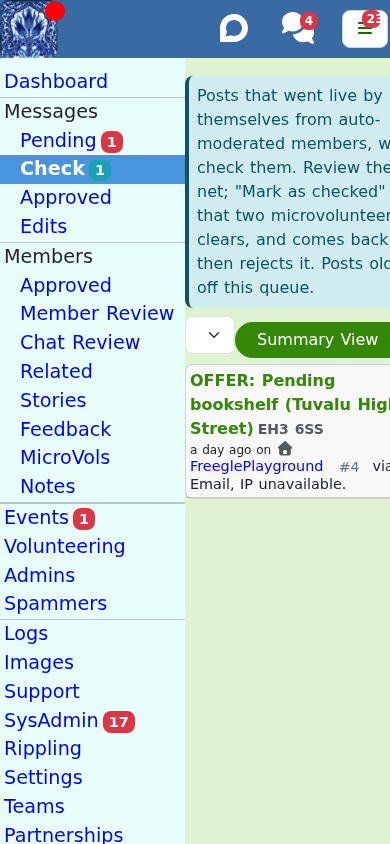
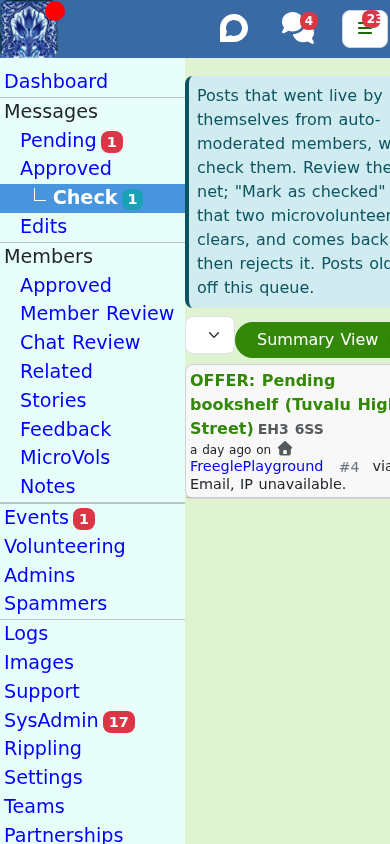
feat(modtools): Check sits under Approved in the menu, joined by an elbow
Check is a slice of Approved, so the menu now shows it directly below
Approved, one step further in, with a small elbow line linking the two. The
menu item gains a "sub" prop that draws the elbow; the screenshots and the
moderator guide follow.

Changed region(s): [[0.0, 0.1848, 0.4923, 0.2773]]

diff --git a/iznik-nuxt3/modtools/components/ModMenuItemLeft.vue b/iznik-nuxt3/modtools/components/ModMenuItemLeft.vue
@@ -1,7 +1,7 @@
 <template>
   <div :class="getClass">
     <!-- eslint-disable-next-line -->
-    <span v-if="indent" class="ps-3" /><nuxt-link :to="link" @mousedown.native="click">{{ name }}</nuxt-link>
+    <span v-if="indent" class="ps-3" /><span v-if="sub" class="menu-elbow" aria-hidden="true" /><nuxt-link :to="link" @mousedown.native="click">{{ name }}</nuxt-link>
     <b-badge v-if="count && getCount(count)" :variant="countVariant">
       {{ getCount(count) }}
     </b-badge>
@@ -49,6 +49,13 @@ const props = defineProps({
     default: 0,
   },
   indent: {
+    type: Boolean,
+    required: false,
+    default: false,
+  },
+  // A sub-item of the entry above it: drawn one step further in, with a small
+  // elbow line joining it to its parent (Check sits under Approved this way).
+  sub: {
     type: Boolean,
     required: false,
     default: false,
@@ -116,5 +123,23 @@ function click(e) {
   a {
     color: $color-white;
   }
+}
+
+/* The elbow that links a sub-item to the entry above it: a short vertical
+   stroke down from the parent's row turning into a horizontal one towards
+   the link, like the last branch of a tree. */
+.menu-elbow {
+  display: inline-block;
+  width: 0.6em;
+  height: 0.7em;
+  margin-left: 0.75em;
+  margin-right: 0.35em;
+  border-left: 1px solid $color-gray--normal;
+  border-bottom: 1px solid $color-gray--normal;
+  vertical-align: 0.15em;
+}
+
+.active .menu-elbow {
+  border-color: $color-white;
 }
 </style>

diff --git a/iznik-nuxt3/tests/unit/components/modtools/ModMenuItemLeft.spec.js b/iznik-nuxt3/tests/unit/components/modtools/ModMenuItemLeft.spec.js
@@ -136,6 +136,24 @@ describe('ModMenuItemLeft', () => {
     })
   })
 
+  describe('sub prop', () => {
+    it('draws no elbow by default', () => {
+      const wrapper = mountModMenuItemLeft({ indent: true })
+      expect(wrapper.find('span.menu-elbow').exists()).toBe(false)
+    })
+
+    it('draws the elbow that joins a sub-item to the entry above it', () => {
+      const wrapper = mountModMenuItemLeft({ indent: true, sub: true })
+      const elbow = wrapper.find('span.menu-elbow')
+      expect(elbow.exists()).toBe(true)
+      expect(elbow.attributes('aria-hidden')).toBe('true')
+      // The elbow sits between the indent and the link text.
+      const html = wrapper.html()
+      expect(html.indexOf('ps-3')).toBeLessThan(html.indexOf('menu-elbow'))
+      expect(html.indexOf('menu-elbow')).toBeLessThan(html.indexOf('<a '))
+    })
+  })
+
   describe('indent prop', () => {
     it('does not add ps-3 span when indent is false', () => {
       const wrapper = mountModMenuItemLeft({ indent: false })

diff --git a/iznik-nuxt3/modtools/layouts/default.vue b/iznik-nuxt3/modtools/layouts/default.vue
@@ -93,17 +93,18 @@
           @mobilehidemenu="mobilehidemenu"
         />
         <ModMenuItemLeft
+          link="/messages/approved"
+          name="Approved"
+          indent
+          @mobilehidemenu="mobilehidemenu"
+        />
+        <ModMenuItemLeft
           link="/messages/check"
           name="Check"
           :count="['checked']"
           count-variant="info"
           indent
-          @mobilehidemenu="mobilehidemenu"
-        />
-        <ModMenuItemLeft
-          link="/messages/approved"
-          name="Approved"
-          indent
+          sub
           @mobilehidemenu="mobilehidemenu"
         />
         <ModMenuItemLeft

diff --git a/docs/moderators/post-moderation.md b/docs/moderators/post-moderation.md
@@ -367,8 +367,9 @@ These are known and not fully solved:
   Nothing publishes out from under you while you are reading it.
 
   ![The Pending queue, with the countdown on a post that is about to publish itself](assets/pending.png)
-- **One oversight queue, Check**, sits alongside Pending and Approved (on every
-  community, in the trial or not - see "What a community NOT taking part still sees").
+- **One oversight queue, Check**, sits under Approved in the menu, indented and joined
+  to it by a small line, because it is a slice of Approved (on every community, in the
+  trial or not - see "What a community NOT taking part still sees").
   It lists the posts that went live by themselves via the automatic checks and that
   nobody has looked at yet. It shows a blue count of what you have not yet looked at,
   offers **"Mark all as checked"**, and ages posts out after **7 days** so it never
